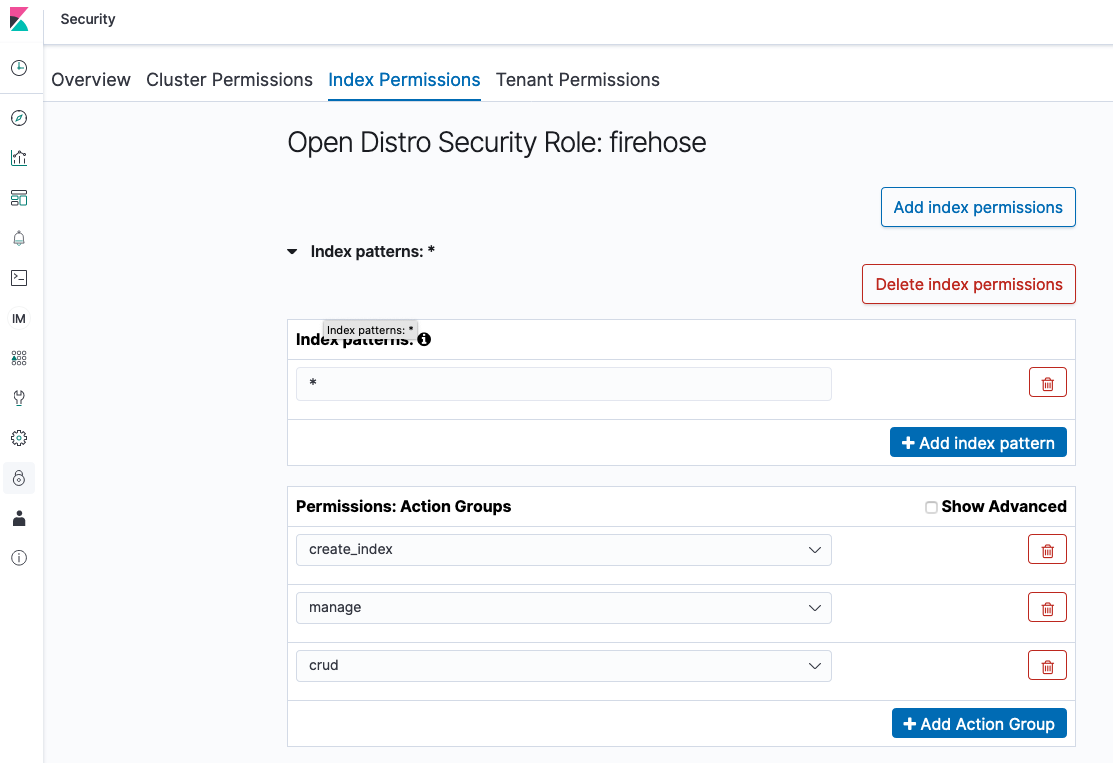
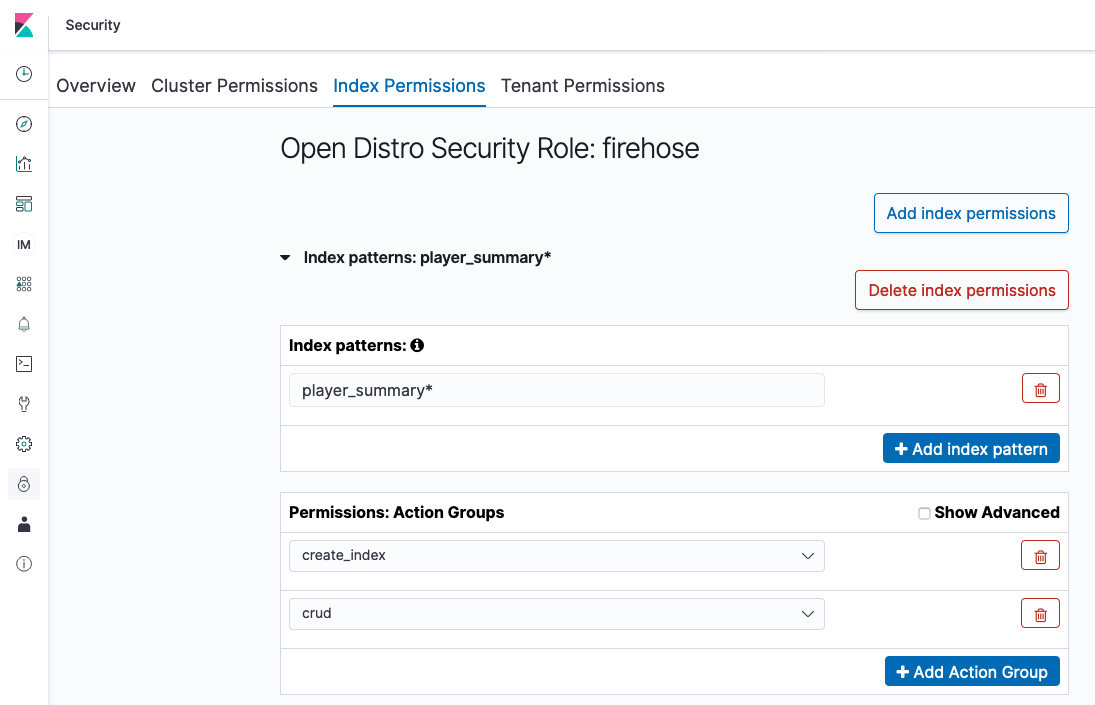
corrections and updates for newer release of AWSES

diff --git a/docs/elasticsearch.md b/docs/elasticsearch.md
@@ -2,12 +2,14 @@
 
 ### Deploying AWS ElasticSearch
 
-Currently, this solution only supports delivery to AWS ElasticSearch clusters with a public-endpoint and fine-grained access control enabled. To deploy an ElasticSearch cluster to receive metrics from the solution, follow these steps:
+Currently, this solution only supports delivery to AWS ElasticSearch clusters with a public-endpoint and fine-grained access control enabled. This guide will show you how to deploy a new ElasticSearch cluster that meets the supported configuration requirements for the solution. 
 
-1. Navigate to the AWS ElasticSearch Management Console in a supported region (us-east-1, us-west-2, eu-west-1)
-1. Create a new Domain
-1. Determine if you which to deploy as Production or Development and testing, as per your requirements.
-1. Complete the basic infrastructure configuration settings for the domain. Note that fine-grained access control is not supported on the t2.* family of instance-types. We recommend by default selecting an r5.large.elasticsearch or m5.large.elasticsearch as your node type.
+To deploy an ElasticSearch cluster with fine-grained access control enabled, follow these steps:
+
+1. Navigate to the AWS ElasticSearch Management Console in the region you have deployed the rest of this solution into. 
+1. Click on "Create a new Domain"
+1. Determine if you which to deploy as "Development and testing" or "Production", as per your requirements.
+1. Complete the basic infrastructure configuration settings for the domain. Note that fine-grained access control is not supported on the t2.* family of instance-types so do not select instances from this family. We recommend by default selecting a t3.medium.elasticsearch instance-type if you are simply testing the solution, or start from either a r5.large.elasticsearch or m5.large.elasticsearch instance-type for a production environment.
 1. Configure Public access for the domain and enable fine-grained access control
 1. Select 'Create master user' and create a master username and password with a secure password
 1. Configure the Access Policy to "Allow open access to the domain". Note, access to the domain under this configuration is controlled via the Fine-grained access control module within ElasticSearch.
@@ -19,32 +21,27 @@ In order to configure ElasticSearch to accept logs from the Kinesis Firehose str
 
 1. Navigate to the AWS ElasticSearch Management Console and select your cluster
 1. Click the link to Kibana under the Cluster Overview tab
-1. Once logged in to Kibana, navigate to Security->Roles via the menu on the left
-1. Create a new Role named 'firehose'
-1. Grant the following permissions:
+1. Once logged in to Kibana, open the Security menu by clicking on the lock icon from the list on the left.
+1. From the security menu, click on Roles
+1. Click on the '+' icon to create a new Role
+1. Name the Role 'firehose': 
 
-``{
-  "cluster_permissions": [
-    "cluster_composite_ops",
-    "cluster_monitor"
-  ],
-  "index_permissions": [{
-    "index_patterns": [
-      "*"
-    ],
-    "allowed_actions": [
-      "create_index",
-      "manage",
-      "crud"
-    ]
-  }]
-}``
-1. Note, you can set the value under index_patterns to the prefix of the index you have set when deploying the CloudFormation template for the solution.
+![Role Name](./images/es-role-name.png)
+
+1. Under the Cluster Permissions tab, grant the following permissions to the role:
+- cluster_composite_ops
+- cluster_monitor
 
 ![Cluster Permissions](./images/es-cluster-permissions.png)
+
+1. Under the Index Permissions tab, set the index pattern value to match the value specified when you deployed the solution in CloudFormation, with an asterix ('*') appended. Apply the following permissions:
+
+- create_index
+- crud
+
 ![Index Permissions](./images/es-index-permissions.png)
 
-Save the changes
+1. Save the changes
 
 ### Next map the Kinesis Firehose IAM Role to this new ElasticSearch policy:
 
